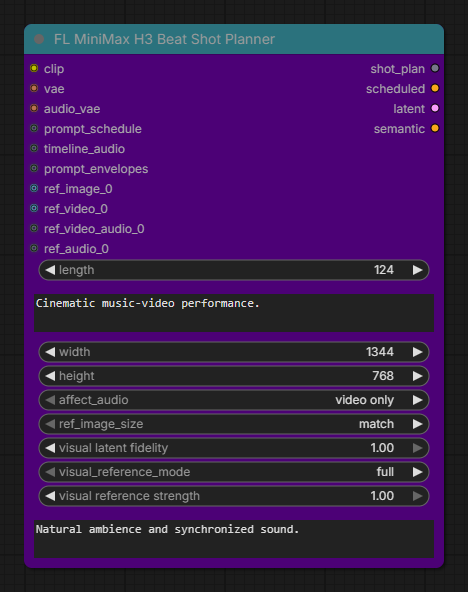
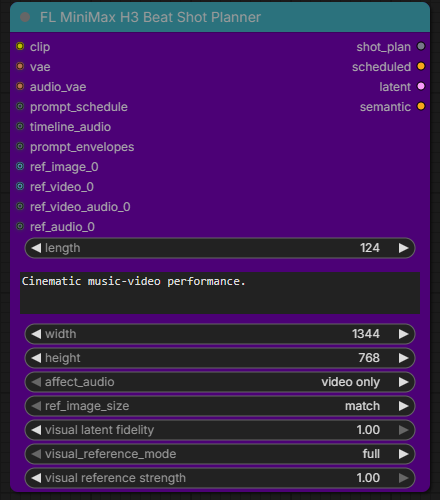
Remove global prompt suffix

diff --git a/nodes/FL_MiniMaxH3PromptTimeline.py b/nodes/FL_MiniMaxH3PromptTimeline.py
@@ -418,8 +418,8 @@ def _format_time(seconds):
     return f"{minutes:02d}:{remainder:06.3f}"
 
 
-def _combine_prompt(*parts):
-    return "\n\n".join(part.strip() for part in parts if part and part.strip())
+def _combine_prompt(global_prompt, prompt):
+    return "\n\n".join(part for part in (global_prompt.strip(), prompt.strip()) if part)
 
 
 def _semantic_prompt(global_prompt, sections, prompt_envelopes=None):
@@ -774,11 +774,10 @@ def _conditioning_groups(
     ref_blocks,
     cache=None,
     visual_cond_noise_aug=None,
-    prompt_suffix="",
 ):
     groups = {}
     for index, section in enumerate(sections):
-        prompt = _combine_prompt(global_prompt, section["prompt"], prompt_suffix)
+        prompt = _combine_prompt(global_prompt, section["prompt"])
         group = groups.get(prompt)
         if group is None:
             group = {
@@ -806,11 +805,10 @@ def _prompt_envelope_groups(
     ref_blocks,
     cache=None,
     visual_cond_noise_aug=None,
-    prompt_suffix="",
 ):
     groups = {}
     for index, envelope in enumerate(prompt_envelopes):
-        prompt = _combine_prompt(global_prompt, envelope["prompt"], prompt_suffix)
+        prompt = _combine_prompt(global_prompt, envelope["prompt"])
         group = groups.get(prompt)
         if group is None:
             group = {
@@ -1630,17 +1628,6 @@ class FL_MiniMaxH3BeatShotPlanner(io.ComfyNode):
                         "both predictions while sampling."
                     ),
                 ),
-                io.String.Input(
-                    "global_prompt_suffix",
-                    optional=True,
-                    multiline=True,
-                    dynamic_prompts=True,
-                    default="",
-                    tooltip=(
-                        "Text appended after every scheduled prompt. Use it for trailing sections such "
-                        "as overall_soundscape and non_diegetic_music."
-                    ),
-                ),
                 FLPromptEnvelopeSet.Input(
                     "prompt_envelopes",
                     optional=True,
@@ -1738,7 +1725,6 @@ class FL_MiniMaxH3BeatShotPlanner(io.ComfyNode):
         visual_condition_fidelity=1.0,
         visual_reference_mode="full",
         reference_strength=1.0,
-        global_prompt_suffix="",
         prompt_envelopes=None,
         ref_images=None,
         ref_videos=None,
@@ -1884,10 +1870,9 @@ class FL_MiniMaxH3BeatShotPlanner(io.ComfyNode):
                 start_frame,
                 render_frames,
             )
-            base_prompt = _combine_prompt(global_prompt, global_prompt_suffix)
             global_conditioning = _encode_prompt(
                 clip,
-                base_prompt,
+                global_prompt.strip(),
                 ref_items,
                 ref_blocks,
                 conditioning_cache,
@@ -1903,7 +1888,6 @@ class FL_MiniMaxH3BeatShotPlanner(io.ComfyNode):
                 ref_blocks,
                 conditioning_cache,
                 visual_cond_noise_aug,
-                global_prompt_suffix,
             )
             prompt_envelope_groups = _prompt_envelope_groups(
                 clip,
@@ -1913,12 +1897,11 @@ class FL_MiniMaxH3BeatShotPlanner(io.ComfyNode):
                 ref_blocks,
                 conditioning_cache,
                 visual_cond_noise_aug,
-                global_prompt_suffix,
             )
             if has_visual_references:
                 reference_free_global_conditioning = _encode_prompt(
                     clip,
-                    base_prompt,
+                    global_prompt.strip(),
                     reference_free_ref_items,
                     reference_free_ref_blocks,
                     conditioning_cache,
@@ -1932,7 +1915,6 @@ class FL_MiniMaxH3BeatShotPlanner(io.ComfyNode):
                     reference_free_ref_blocks,
                     conditioning_cache,
                     visual_cond_noise_aug,
-                    global_prompt_suffix,
                 )
                 reference_free_prompt_envelope_groups = _prompt_envelope_groups(
                     clip,
@@ -1942,7 +1924,6 @@ class FL_MiniMaxH3BeatShotPlanner(io.ComfyNode):
                     reference_free_ref_blocks,
                     conditioning_cache,
                     visual_cond_noise_aug,
-                    global_prompt_suffix,
                 )
             timeline = {
                 "type": "minimax_h3_prompt_timeline",
@@ -1978,12 +1959,11 @@ class FL_MiniMaxH3BeatShotPlanner(io.ComfyNode):
                 "render_frames": render_frames,
                 "padding_frames": render_frames - authored_frames,
                 "prompt": (
-                    base_prompt
+                    global_prompt.strip()
                     if is_manual
                     else _combine_prompt(
                         global_prompt,
                         "\n\n".join(section["prompt"] for section in section_group),
-                        global_prompt_suffix,
                     )
                 ),
                 "timeline": timeline,

diff --git a/tests/test_minimax_h3_beat_shots.py b/tests/test_minimax_h3_beat_shots.py
@@ -122,9 +122,7 @@ class ShotPlannerTests(unittest.TestCase):
         self.assertNotIn("sections_per_chunk", inputs)
         self.assertNotIn("individual_start_section", inputs)
         self.assertIn("prompt_envelopes", inputs)
-        self.assertIn("global_prompt_suffix", inputs)
-        self.assertTrue(inputs["global_prompt_suffix"].optional)
-        self.assertEqual(inputs["global_prompt_suffix"].default, "")
+        self.assertNotIn("global_prompt_suffix", inputs)
         fidelity = inputs["visual_condition_fidelity"]
         self.assertEqual((fidelity.default, fidelity.min, fidelity.max, fidelity.step), (1.0, 0.0, 1.0, 0.01))
         self.assertEqual(inputs["visual_reference_mode"].default, "full")
@@ -405,7 +403,7 @@ class ShotPlannerTests(unittest.TestCase):
         self.assertTrue(all(items[2] is refs[0][2] for items in refs))
         self.assertEqual(len({id(items[1]) for items in refs}), 4)
 
-    def test_prompt_suffix_follows_scheduled_and_envelope_prompts(self):
+    def test_global_prompt_prefixes_scheduled_and_envelope_prompts(self):
         clip = FakeClip()
         prompt_envelopes = {
             "type": "fl_prompt_envelope_set",
@@ -430,7 +428,6 @@ class ShotPlannerTests(unittest.TestCase):
                 "sample_rate": 24000,
             },
             global_prompt="Prompt prefix.",
-            global_prompt_suffix="Prompt suffix.",
             width=64,
             height=64,
             affect_audio="video only",
@@ -439,18 +436,18 @@ class ShotPlannerTests(unittest.TestCase):
         ).result[0]
 
         shot = plan["shots"][0]
-        self.assertEqual(shot["prompt"], "Prompt prefix.\n\nShot 1.\n\nPrompt suffix.")
+        self.assertEqual(shot["prompt"], "Prompt prefix.\n\nShot 1.")
         self.assertEqual(
             [group["prompt"] for group in shot["timeline"]["conditioning_groups"]],
-            ["Prompt prefix.\n\nShot 1.\n\nPrompt suffix."],
+            ["Prompt prefix.\n\nShot 1."],
         )
         self.assertEqual(
             [group["prompt"] for group in shot["timeline"]["prompt_envelope_groups"]],
-            ["Prompt prefix.\n\nBeat accent.\n\nPrompt suffix."],
+            ["Prompt prefix.\n\nBeat accent."],
         )
         self.assertEqual(
             shot["timeline"]["global_conditioning"][0][1]["prompt"],
-            "Prompt prefix.\n\nPrompt suffix.",
+            "Prompt prefix.",
         )
 
     def test_timeline_groups_build_arbitrary_shared_context_render_units(self):

diff --git a/README.md b/README.md
@@ -47,7 +47,7 @@ Rebuilds strict time-masked conditioning for an H3 latent whose spatial dimensio
 
 Converts an exact 24 fps beat prompt schedule into grouped or independent H3 render units and slices the matching timeline audio for each render. Without a connected schedule it plans one continuous render, making the node usable as a compact alternative to Prompt Timeline.
 
-- **Important inputs:** H3 encoders, optional schedule and aligned audio, global prompt prefix and suffix, dimensions, audio-mask policy, visual-reference mode, reference strength and fidelity, reactive envelopes, and references.
+- **Important inputs:** H3 encoders, optional schedule and aligned audio, global prompt, dimensions, audio-mask policy, visual-reference mode, reference strength and fidelity, reactive envelopes, and references.
 - **Outputs:** the complete `shot_plan` plus the first render's `scheduled`, `latent`, and `semantic` values for standard-sampler workflows.
 
 #### FL MiniMax H3 Shot Motion Context
@@ -295,7 +295,6 @@ The first Beat KSampler finishes its complete latent list before downstream node
 - **affect_audio** - Apply scheduled text masks to video only or to video and audio tokens
 - **duration_policy** - Reject, clamp, or fit schedule ranges that exceed the aligned H3 duration
 - **ref_image_size** - Match the output canvas or allow H3's maximum reference area
-- **global_prompt_suffix** - Append persistent trailing prompt sections after every scheduled and reactive prompt
 - **target_long_side** - Pixel long side used by either upscale path; must be divisible by 32
 - **video_context_frames / audio_context_frames** - Previous authored material used to guide each next hard-cut render
 - **steps / start_at_step / end_at_step** - Total refinement schedule and the explicit portion sampled after the pixel resize and VAE round trip
